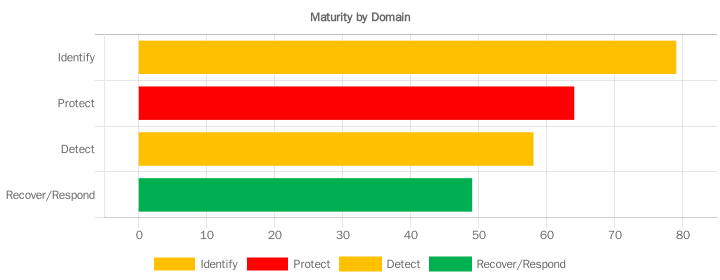
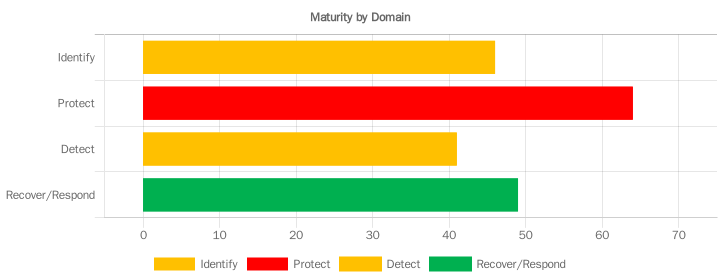
asd

diff --git a/pdfgenerator/report-values.php b/pdfgenerator/report-values.php
@@ -1,8 +1,8 @@
 <?php
-$q1 = 1;
-$q2 = 1;
-$q3 = 1;
-$q4 = 1;
+$q1 = 0;
+$q2 = 0;
+$q3 = 0;
+$q4 = 0;
 $q5 = 1;
 $q6 = 1;
 $q7 = 0;
@@ -14,8 +14,8 @@ $q12 = 1;
 $q13 = 0;
 $q14 = 1;
 $q15 = 1;
-$q16 = 1;
-$q17 = 1;
+$q16 = 0;
+$q17 = 0;
 $q18 = 1;
 $q19 = 1;
 $q20 = 0;
@@ -142,4 +142,107 @@ $detect_capability_event_detection = getCapability($detect_event_detection);
 $respond_recover_capability_planning = getCapability($respond_recover_planning);
 $respond_recover_capability_testing = getCapability($respond_recover_testing);
 $respond_recover_capability_response_and_mitigation = getCapability($respond_recover_response_and_mitigation);
+
+//Why is it important
+$why_is_it_important = array(
+    "Oversight" => "Establishing a robust security program is crucial for any organization looking to protect itself against cyber threats. As part of any good cyber program it's important to have a dedicated person responsible for ongoing oversight, such as CISO or Head of Security.  A CISO is critical to ensuring that your program is comprehensive, up-to-date and align to mitigate risk.<br/>
+    <br/>
+    Assigning someone oversight to the program ensures that the board or executive team is informed of risk and threats to the business and that the proper strategy is in place to mitigate risk.  Equally important to having a CISO to oversee the program is the need to make sure there are clearly assigned security roles and responsibilities to all other members of the security organization.",
+
+    "IT Asset Management" => "Maintaining an inventory of organizational assets, prioritizing assets based on criticality/value to the business, assigning accountability for maintaining the inventory of assets, and having a formal change management process are vital components for effective cybersecurity management. Developing processes around asset management helps organizations understand their digital landscape, assess risks, detect threats, manage vulnerabilities, control access, respond to incidents, and comply with regulations.<br/>
+    <br/>
+    The lack of an asset inventory process affects an organizations ability to perform other critical cyber security tasks such as Risk Managment, Threat Detection and Response, Patch and Vulnerability Management, Incident Response and Compliance management.",
+
+    "Risk Assessment" => "Performing ongoing Risk Assessments are one of the most important part of a cyber program and serves as the foundation to which a strong cyber program.  By implementing a risk management strategy, organizations can prioritize risks based on their potential impact and likelihood of occurrence. This allows them to allocate their resources effectively and focus on addressing the most critical risks that could have severe consequences for their operations, reputation, or data. In addition,<br/>
+    <br/>
+    A risk assessment involves evaluating the potential threats that an organization may face, such as malware, phishing attacks, or insider threats. By understanding these threats, organizations can develop appropriate countermeasures and controls to mitigate the risks effectively. Many industries and regulatory frameworks recognize the importance of risk analysis and therfore require organizations to perform risk assessments as part of their compliance obligations.",
+
+    "Third Party Risk" => "Many organizations rely on third-party vendors for various services, such as cloud computing, software development, data storage, and customer support.  These vendors often have access to sensitive data and systems in order to provide services to your organization.  Organization's increased use of third-party vendors has resulted in an expanded attack surface for organization's that extend beyond the boundraries of a traditional network.<br/>
+    <br/>
+    Cybercriminals may target these vendors in attempts to gain unauthorized access to your organization's systems or data. Having a mature third-party risk program helps assess the security posture of these vendors and ensures they have appropriate cybersecurity measures in place to protect your data.",
+
+    "Training/Culture" => "Human error is still a leading cause of security breaches within most organizations. While technology plays a crucial role in cybersecurity protection, people are still an area of weakness in most security programs. An educated and trained employee (AKA \"The human firewall\") is a critical component to a strong security program.  Seventy Percent (70%) of all attacks start with social engineering or phishing of users.<br/>
+    <br/>
+    Employees who are unaware of cybersecurity best practices or who fall for phishing scams can unintentionally compromise their organization's security. Regular security training helps employees understand the importance of cybersecurity and how to protect against threats. In addition, regular phishing testing helps employees recognize the signs of a phishing attack and respond appropriately before they are faced with the real scenario.",
+
+    "Infrastructure Management" => "Effective infrastructure management ensures that the organization's critical systems and networks are secure. Infrastructure management focuses on maintaining the availability and reliability of systems and networks. It includes tasks such as capacity planning, performance monitoring, fault tolerance, and disaster recovery planning.<br/>
+    <br/>
+    In addition, Infrastructure Management involves implementing security measures such as firewalls, intrusion detection systems, access controls, and encryption to protect against cyber threats. Regular monitoring, patching, and updating of infrastructure components are also a vital role within Infrasturcutre Management in order to address vulnerabilities and stay resilient against emerging risks.",
+
+    "Patch Management" => "Patch management is critical for maintaining the security, stability, and integrity of software systems, protecting against known vulnerabilities, and reducing the risk of cyber attacks.<br/>
+    <br/>
+    Software and operating systems often contain vulnerabilities that can be exploited by cyber attackers. Patches are updates released by software vendors to fix these vulnerabilities and strengthen the security of the software. By promptly applying patches, organizations can protect their systems from known security flaws and reduce the risk of successful cyber attacks.",
+
+    "Threat Intelligence and Information" => "Threat intelligence and information plays a crucial role in a security program because it provides valuable information and context about potential threats and adversaries that can be used to improve the organization's security posture.<br/>
+    <br/>
+    By collecting and analysing threat intelligence, security teams can gain insights into the tactics, techniques, and procedures (TTPs) used by cybercriminals, nation-state actors, hacktivists, and other threat actors. This information can be used to identify potential vulnerabilities in the organization's infrastructure, applications, and systems, and to develop effective countermeasures to prevent or mitigate attacks.",
+
+    "Monitoring and Analysis" => "Monitoring and analysis are critical components of any comprehensive cybersecurity program because they help to detect and review potential security threats in a timely manner. The Monitoring and analysis function provides continuous review of network activity, system logs, and other sources of information to detect any signs of suspicious or malicious activity.<br/>
+    <br/>
+    By detecting security threats early, organizations can take immediate action to limit the damage of the potential threat and limit it’s impact to the organization. By monitoring and performing analysis of network traffic, system logs, and other data sources, organizations can identify vulnerabilities, understand attack patterns, and make informed decisions",
+
+    "Threat and Vulnerability Detection" => "Threat and vulnerability detection processes such as vulnerability scanning, penetration testing, email security and end point detection controls are essential components of a comprehensive cybersecurity program because they help to identify and mitigate potential security risks before they can be exploited by attackers.   This early detection can help organizations respond quickly and prevent damage or loss of a potential cyber threat. Threat and vulnerability detection can help identify and protect critical assets, such as customer data or intellectual property, from cyber-attacks. This protection is particularly important for organizations that rely heavily on their reputation and brand.",
+
+    "Event Detection" => "Event logging and detection play critical roles in a security program by providing valuable information that can help prevent, detect, and respond to security incidents. Event logging involves the collection of data on activities occurring within a system or network. The ability to detect events across critical system components like perimeter activity, email activity, endpoint activity and user activity are critical for the ability to reconstruct what happened during a security incident.",
+
+    "Response Planning" => "In today's Cyber world it is not a question of \"if\" but \"when\" an attack will occur. To minimize the damage of a Cybersecurity incident requires quick and decisive action. By having an effective incident response planning process in place organizations will minimize the potential damage \"when\" a cyber incident occurs.<br/>
+    <br/>
+    A critical part of the response planning process is to develop an incident response plan. Having an incident response plan ensures that organizations have pre-defined processes and procedures to follow when an incident occurs. By having a well-defined and documented plan in place, organizations can respond swiftly and appropriately to incidents, limiting their impact and reducing the time it takes to recover.",
+
+    "Response Testing" => "Testing of your incident response plan is critical for a cyber program because it helps to identify any weaknesses or gaps in your plan before an actual cyber attack occurs. A common process in response testing is to perform table top tests or walk throughs of a plan which simulate real incident scenarios. By simulating different types of cyber attacks and scenarios, you can evaluate the effectiveness of your incident response plan and ensure that it is comprehensive and well-coordinated.",
+
+    "Mitigation and Recovery" => "A cyber incident, such as a data breach or a ransomware attack, can disrupt business operations and systems. A business resumption  plan works in conjunction with an organization's incident response plan. While the incident response plan focuses on the immediate actions to address a cyber incident, the business resumption plan takes a broader perspective and encompasses the recovery and restoration of business operations.<br/>
+    <br/>
+    Business resumption plans are vital to a cyber program because they enable organizations to effectively respond to cyber incidents, minimize downtime, ensure continuity, enhance incident response capabilities, mitigate financial and legal risks, and promote stakeholder confidence.",
+);
+
+//How can we help?
+$how_can_we_help = array(
+    "Oversight" => "SilverSky's vCISO services can assist customer's in managing and maintaining their cyber program at a strategic level by providing seasoned professionals with decades of indusrty security expertise. SilverSky's vCISO can be used as much or as little as you need them.  They can help fill a specific gap or project or be a more consistent resource to help build and manage the growth of your cyber program.",
+
+    "IT Asset Management" => "SilverSky's professional services team can assist organizations by providing guidance and expertise in the development and implementation of an asset management process.<br/>
+    <br/>
+    In addition, SilverSky Insight services we can help organizations map their current networks and prioritize business risk findings that will help organizations that will help protect critical assets and ensure that changes to their IT infrastructure are properly vetted and approved before implementation. Ultimately, SilverSky's expertise can help organizations to enhance their overall security posture and protect their systems and data from cyber threats.",
+
+    "Risk Assessment" => "At SilverSky, we understand that conducting regular risk assessments is a critical component of maintaining a strong security posture. The SilverSky Consulting team can work with your organization to perform a comprehensive IT Risk assessment of your infrastructure to identify any known vulnerabilities and weaknesses and develop risk mitigations places. We will also help you determine whether your current security investments are aligned with your organization's risk profile and provide guidance on necessary security controls. Our risk assessment process takes into account the value of each asset to your organization, as well as the potential impact of any security incidents. This approach enables us to provide clear recommendations for specific security controls that can help mitigate risk and protect your critical assets.",
+
+    "Third Party Risk" => "At Silversky, we understand that understanding the risks in your environment is a critical step in strengthening your security posture. We provide in-depth gap analysis and assessments to give you a comprehensive view of your security environment, including third-party vendors and their access. By completing risk assessments, you can identify potential vulnerabilities and gaps in your security posture, and take action to mitigate them. We can assist in assessing who has access to your environment, ensuring that only authorized users are able to access your sensitive data and systems. With our expertise, you can better protect your organization from data breaches and other security threats.",
+
+    "Training/Culture" => "Silversky's can reduce the burden of having the continually train and test your staff through SilverSky's Aware service. Powered by the industry leading KnowBe4 knowledge management and phishing platform, SilverSky's team of cyber security experts will provide a fully outsoruced and managed solution while providing strategic guidance to reduce the risk of employees falling victim to phishing threats within your environment.  SilverSky's training and testing lifecycle helps employees train on the latest tactics and techniques, Silversky ensures that your organization's \"human firewall\" is strong and resilient. Then through regular testing, we help your employees build develop better practices to identify and respond to social engineering attacks, including phishing",
+
+    "Infrastructure Management" => "",
+
+    "Patch Management" => "Effective patch management is crucial to maintaining the security of your systems and reducing the risk of cyberattacks. However, patch management can be a time-consuming and complex process that requires expertise and resources. Silversky can assist with this by leveraging their experience and knowledge to ensure that patches are tested and deployed in a timely and efficient manner, reducing the window of vulnerability. Additionally, their team can provide ongoing monitoring and reporting to confirm that all necessary patches have been applied and that your systems remain secure. With Silversky's support, you can have peace of mind knowing that your systems are up-to-date and protected from known vulnerabilities",
+
+    "Threat Intelligence and Information" => "staying informed about the latest cyber threats is critical to maintaining the security of your organization's network and systems. By subscribing to SilverSky's threat intelligence feeds and analysis, you can gain valuable insights into emerging threats and tactics used by attackers. Our team continuously monitors and analyzes these threats to provide proactive threat detection and response, helping to protect your organization against new and evolving cyber threats. With threat intelligence information, you can proactively identify and address potential security issues before they are exploited by malicious actors, improving your overall security posture and reducing the risk of a successful cyber attack. SilverSky provides a deep understanding of the current threat landscape, enabling you to identify and prioritize potential risks to your organization. By using this information to inform your security strategy, you can better protect your systems and data from cyber attacks, reducing the likelihood of a security breach and associated financial and reputational damage. Trust SilverSky to provide expert analysis and recommendations to enhance your risk management and cyber controls, helping to keep your organization secure.",
+
+    "Monitoring and Analysis" => "Proper collection and storage of logs is critical for maintaining security and compliance, as it provides an audit trail for every asset in your organization. Without collecting and analyzing log data, there are significant security gaps and no visibility of your network. Silversky can assist in ensuring that your organization is properly collecting and ingesting logs. Logging mechanisms for threat detection are also essential in preventing, detecting, and minimizing the impact of a data compromise. Silversky can provide feedback to help mitigate threats within your environment, and can also offer Managed Detection and Response (MDR) services for threat hunting, investigation, remediation, and timely reporting. Continuous monitoring of your cybersecurity through an experienced security services provider, like Silversky, can improve your threat alerts and free up time for your team to focus on other priorities. Ensure that your organization is covered 24/7 in the constantly changing cybersecurity landscape, meeting compliance and regulatory requirements, minimizing data breaches, and responding quickly to any incidents that occur.",
+
+    "Threat and Vulnerability Detection" => "Silversky can help your organization to monitor user activity, detect suspicious behavior, and respond to potential security incidents in a timely manner. With their expertise in security information and event management (SIEM) and other advanced analytics tools, they can help you to establish a baseline of normal system and network activity, detect deviations, and investigate any suspicious activity. They can also assist with implementing processes to detect unauthorized devices on your network and establishing clear and documented escalation procedures for incident response. By working with Silversky, you can improve your organization's security posture and minimize the impact of potential security incidents.",
+
+    "Event Detection" => "Silversky can help your organization respond quickly and uniformly to external threats through the creation of a comprehensive incident response plan. This plan can help minimize the duration and damage of security incidents by identifying stakeholders and outlining the recovery process. We can act as your MIR partner when you have a breach and need a team to respond to an incident, providing guidance for proper channels of communication and defining roles and responsibilities for incident response. In addition, we can assist in providing feedback to help reduce downtime within your operation. We can also help determine the cyber liability insurance coverages needed, which is often a contractual requirement and an important part of your board’s due diligence. Silversky can also assist in creating a formal backup and recovery plan for all critical business lines, ensuring that essential data is protected and can be recovered in case of a cybersecurity incident.",
+
+    "Response Planning" => "Silversky can help your organization respond quickly and uniformly to external threats through the creation of a comprehensive incident response plan. This plan can help minimize the duration and damage of security incidents by identifying stakeholders and outlining the recovery process. We can act as your MIR partner when you have a breach and need a team to respond to an incident, providing guidance for proper channels of communication and defining roles and responsibilities for incident response. In addition, we can assist in providing feedback to help reduce downtime within your operation. We can also help determine the cyber liability insurance coverages needed, which is often a contractual requirement and an important part of your board’s due diligence. Silversky can also assist in creating a formal backup and recovery plan for all critical business lines, ensuring that essential data is protected and can be recovered in case of a cybersecurity incident.",
+
+    "Response Testing" => "Organizations should test their incident response plan annually to identify weaknesses, improve response times, and minimize the impact of cyber incidents. Testing should include simulating various attack scenarios and involving third-party organizations, such as SOC providers or Incident Response firms. This collaboration ensures a coordinated response and identifies potential gaps or weaknesses in the plan. Routine checking of backup viability is also crucial to ensure the organization can recover from a cybersecurity incident and resume normal operations quickly. Silversky can assist with incident response testing and automated backup monitoring systems to ensure critical business functions can be restored in case of a cyber attack.",
+
+    "Mitigation and Recovery" => "Silversky's incident response planning helps organizations prepare for cybersecurity incidents by providing an in-depth view of their security environment and creating an incident playbook. By having incident response procedures in place, organizations can decrease mean time to failure and minimize the impact of prolonged breaches. The program also helps the security team understand priority areas and plan efficiently in case of incidents. With Silversky's incident response planning, organizations can eliminate panic and respond effectively to any cybersecurity incident.",
+);
+
+$maturity_imporvement_areas = array(
+    "Oversight" => $identify_oversight,
+    "IT Asset Management" => $identify_it_asset_management,
+    "Risk Assessment" => $identify_risk_assessment,
+    "Third Party Risk" => $identify_third_party_risk,
+    "Training/Culture" => $protect_training_culture,
+    "Infrastructure Management" => $protect_infrastructure_management,
+    "Patch Management" => $protect_patch_management,
+    "Threat Intelligence and Information" => $detect_threat_intelligence_and_information,
+    "Monitoring and Analysis" => $detect_monitoring_and_analysis,
+    "Threat and Vulnerability Detection" => $detect_threat_and_vulnerability_detection,
+    "Event Detection" => $detect_event_detection,
+    "Response Planning" => $respond_recover_planning,
+    "Response Testing" => $respond_recover_testing,
+    "Mitigation and Recovery" => $respond_recover_response_and_mitigation,
+);
 ?>

diff --git a/pdfgenerator/report-markup.php b/pdfgenerator/report-markup.php
@@ -459,6 +459,7 @@
 		</li>
 		<li>
 			<b>Summary of recommended measures/countermeasures</b>
+			<div class="page__break"></div>
 			<ol>
 				<li>
 					<b>Maturity Improvement Areas</b>
@@ -474,48 +475,17 @@
 							</tr>
 						</thead>
 						<tbody>
+							<?php $count = 1; ?>
+							<?php foreach ($maturity_imporvement_areas as $key => $area): ?>
+							<?php if(to_whole_num($area) <= 25): ?>
 							<tr>
-								<td>1</td>
-								<td>Threat and Vulnerability Detection</td>
-								<td><p>Threat and vulnerability detection processes such as vulnerability scanning, penetration testing, email security and end point detection controls are essential components of a comprehensive cybersecurity program because they help to identify and mitigate potential security risks before they can be exploited by attackers. This early detection can help organizations respond quickly and prevent damage or loss of a potential cyber threat. Threat and vulnerability detection can help identify and protect critical assets, such as customer data or intellectual property, from cyber-attacks. This protection is particularly important for organizations that rely heavily on their reputation and brand.</p></td>
+								<td><?php echo $count ?></td>
+								<td><?php echo $key ?></td>
+								<td><?php echo $why_is_it_important[$key] ?></td>
 							</tr>
-							<tr>
-								<td>2</td>
-								<td>Event Logging/Detection</td>
-								<td><p>Event logging and detection play critical roles in a security program by providing valuable information that can help prevent, detect, and respond to security incidents. Event logging involves the collection of data on activities occurring within a system or network. The ability to detect events across critical system components like perimeter activity, email activity, endpoint activity and user activity are critical for the ability to reconstruct what happened during a security incident.</p></td>
-							</tr>
-							<tr>
-								<td>3</td>
-								<td>Training/Culture</td>
-								<td><p>Human error is still a leading cause of security breaches within most organizations. While technology plays a crucial role in cybersecurity, people are still a critical part of the equation. Employees who are unaware of cybersecurity best practices or who fall for phishing scams can unintentionally compromise their organization's security. Regular security training helps employees understand the importance of cybersecurity and how to protect against threats. In addition, regular phishing testing helps employees recognize the signs of a phishing attack and respond appropriately before they are faced with the real scenario.</p></td>
-							</tr>
-							<tr>
-								<td>4</td>
-								<td>Monitoring and Analysis</td>
-								<td><p>Monitoring and analysis are critical components of any comprehensive cybersecurity program because they help to detect and review potential security threats in a timely manner. The Monitoring and analysis function provides continuous review of network activity, system logs, and other sources of information to detect any signs of suspicious or malicious activity. By detecting security threats early, organizations can take immediate action to limit the damage of the potential threat and limit it’s impact to the organization. By monitoring and performing analysis of network traffic, system logs, and other data sources, organizations can identify vulnerabilities, understand attack patterns, and make informed decisions about how to improve their security defences.</p></td>
-							</tr>
-							<tr>
-								<td></td>
-								<td>Response Testing</td>
-								<td><p>Testing your incident response plan is critical for a cyber program because it helps to identify any weaknesses or gaps in your plan before an actual cyber attack occurs. By simulating different types of cyber attacks and scenarios, you can evaluate the effectiveness of your incident response plan and ensure that it is comprehensive and well-coordinated.</p></td>
-							</tr>
-							<tr>
-								<td></td>
-								<td>Threat Intel and Information</td>
-								<td>
-									<p>Threat intelligence and information plays a crucial role in a security program because it provides valuable information and context about potential threats and adversaries that can be used to improve the organization's security posture.<p><br/>
-									<p>By collecting and analysing threat intelligence, security teams can gain insights into the tactics, techniques, and procedures (TTPs) used by cybercriminals, nation-state actors, hacktivists, and other threat actors. This information can be used to identify potential vulnerabilities in the organization's infrastructure, applications, and systems, and to develop effective countermeasures to prevent or mitigate attacks.</p>
-								</td>
-							</tr>
-							<tr>
-								<td></td>
-								<td>Threat and Vulnerability Detection</td>
-								<td>
-									<p>Silversky can help you through performing regular internal and external vulnerability scans and annual penetration testing of your organization. These services are critical steps in maintaining a strong security posture and identifying potential vulnerabilities that can be exploited by cybercriminals.</p>
-									<p>Silversky can assist with it’s SilverSky Insight service that t provides vulnerability assessment tools and performance of regular scans to identify and prioritize vulnerabilities in the organization's network, systems, and applications.</p>
-									<p>SilverSky’s Continuous Validation services can also assist you to enhance maturity of this control by performing deep-level testing combining multiple attack vectors to confirm actual rather than theoretical exploitability of vulnerabilities and misconfigurations present on external devices and critical business systems</p>
-								</td>
-							</tr>
+							<?php $count++ ?>
+							<?php endif ?>
+							<?php endforeach ?>
 						</tbody>
 					</table>
 					<br/>
@@ -533,40 +503,17 @@
 							</tr>
 						</thead>
 						<tbody>
+						<?php $count = 1; ?>
+							<?php foreach ($maturity_imporvement_areas as $key => $area): ?>
+							<?php if(to_whole_num($area) <= 25): ?>
 							<tr>
-								<td>1</td>
-								<td>Threat and Vulnerability Detection</td>
-								<td>
-									<p>Silversky can help you through performing regular internal and external vulnerability scans and annual penetration testing of your organization. These services are critical steps in maintaining a strong security posture and identifying potential vulnerabilities that can be exploited by cybercriminals.</p>
-									<p>Silversky can assist with it’s SilverSky Insight service that t provides vulnerability assessment tools and performance of regular scans to identify and prioritize vulnerabilities in the organization's network, systems, and applications.</p>
-									<p>SilverSky’s Continuous Validation services can also assist you to enhance maturity of this control by performing deep-level testing combining multiple attack vectors to confirm actual rather than theoretical exploitability of vulnerabilities and misconfigurations present on external devices and critical business systems</p>
-								</td>
+								<td><?php echo $count ?></td>
+								<td><?php echo $key ?></td>
+								<td><?php echo $how_can_we_help[$key] ?></td>
 							</tr>
-							<tr>
-								<td>2</td>
-								<td>Event Logging/Detection</td>
-								<td></td>
-							</tr>
-							<tr>
-								<td>3</td>
-								<td>Training/Culture</td>
-								<td><p>Silversky's exceptional security awareness curriculum equips users with a deep understanding of the different social engineering strategies that hackers use to compromise an organization's security. By training employees on the latest tactics and techniques, Silversky ensures that your organization's "human firewall" is strong and resilient. Through regular testing, Silversky's training program helps employees develop better practices to identify and respond to social engineering attacks, including phishing. Furthermore, holding employees accountable for security training is critical for creating a culture of security within the organization. When management sets high standards for security, employees are more likely to embody those standards, leading to a more secure environment. Protect your organization from cyber threats today with Silversky's remarkable security awareness curriculum.</p></td>
-							</tr>
-							<tr>
-								<td>4</td>
-								<td>Monitoring and Analysis</td>
-								<td></td>
-							</tr>
-							<tr>
-								<td></td>
-								<td>Response Testing</td>
-								<td></td>
-							</tr>
-							<tr>
-								<td></td>
-								<td>Threat Intel and Information</td>
-								<td></td>
-							</tr>
+							<?php $count++ ?>
+							<?php endif ?>
+							<?php endforeach ?>
 						</tbody>
 					</table>
 					<br/>

diff --git a/report.php b/report.php
@@ -1,9 +1,9 @@
 <?php
 include './pdfgenerator/report-helper.php';
 include './pdfgenerator/report-values.php';
-// include './pdfgenerator/report-generate-overall-cyber-maturity.php';
-// include './pdfgenerator/report-generate-maturity-by-domain.php';
-// include './pdfgenerator/report-generate-maturity-by-industry-comparison.php';
+include './pdfgenerator/report-generate-overall-cyber-maturity.php';
+include './pdfgenerator/report-generate-maturity-by-domain.php';
+include './pdfgenerator/report-generate-maturity-by-industry-comparison.php';
 require_once './pdfgenerator/dompdf/vendor/autoload.php';
 
 ob_start();
